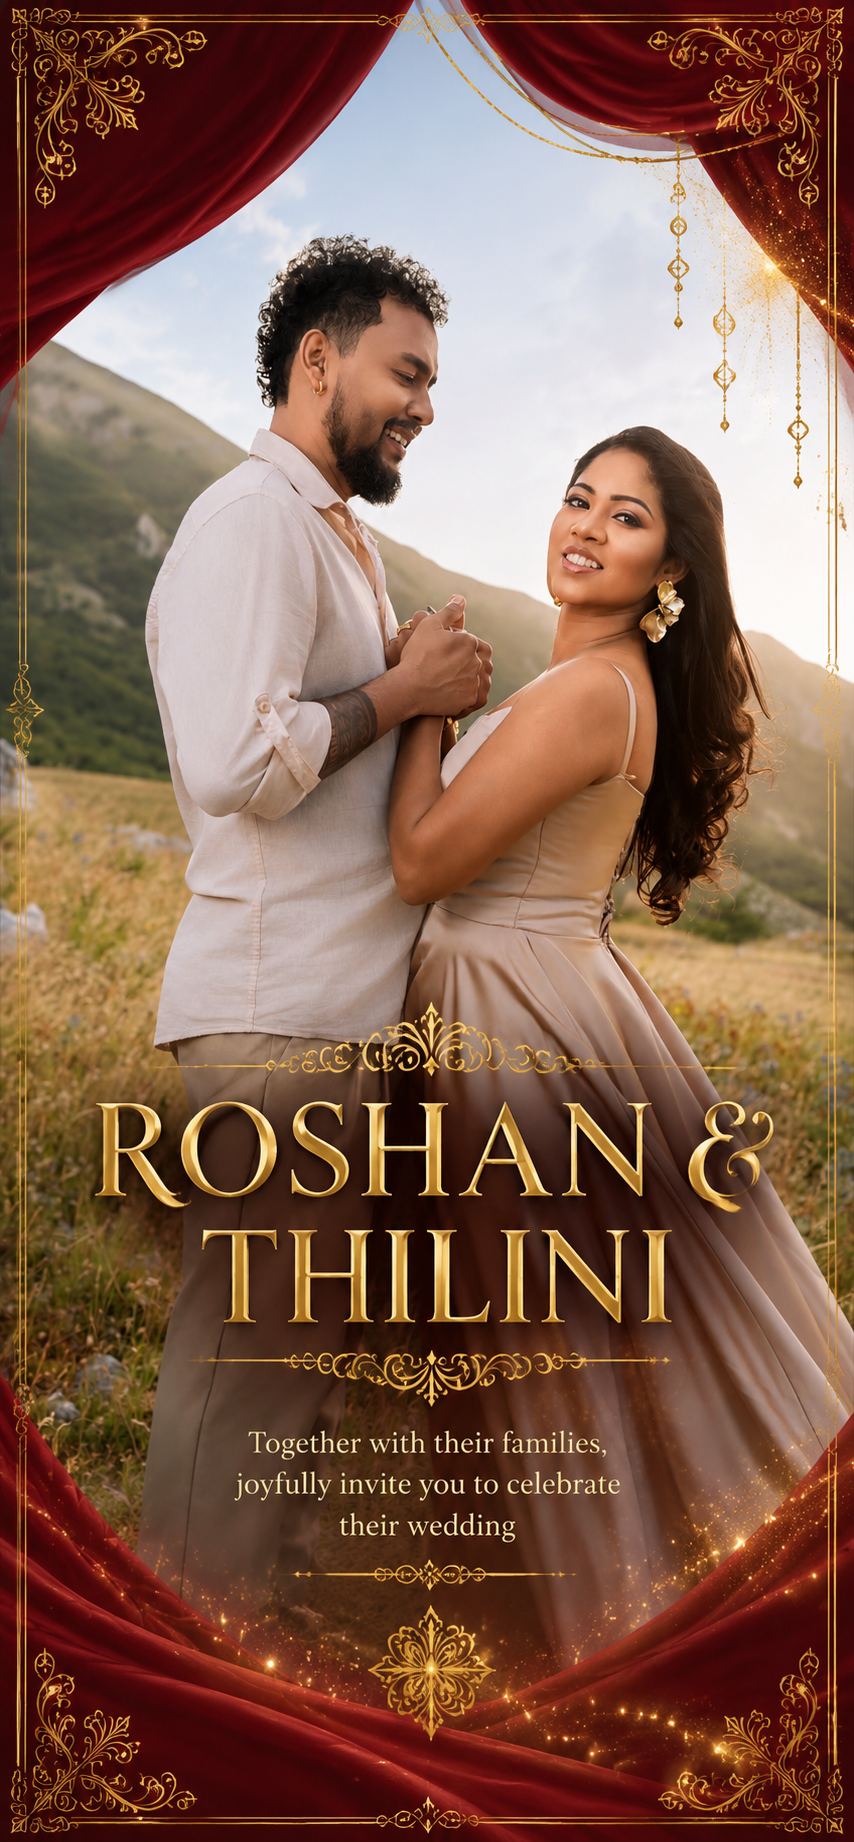
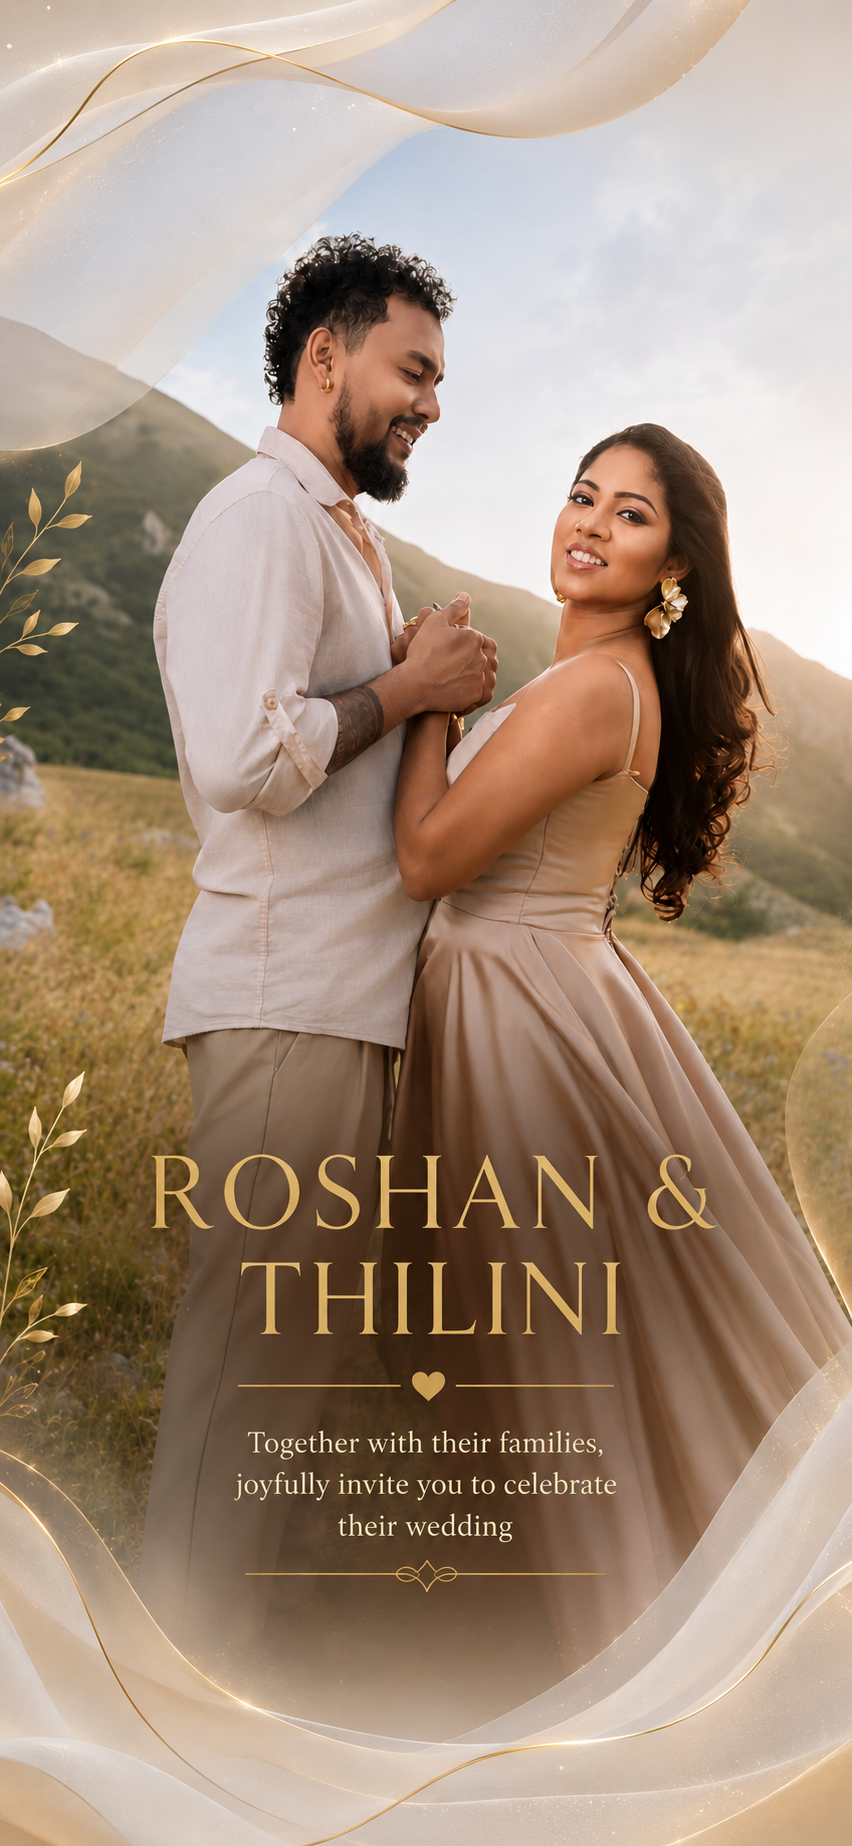
hhh

diff --git a/components/sections/ParentsSection.tsx b/components/sections/ParentsSection.tsx
@@ -1,0 +1,115 @@
+'use client';
+
+import { motion } from 'framer-motion';
+import { useInView } from 'react-intersection-observer';
+import { Sparkles } from 'lucide-react';
+
+export default function ParentsSection() {
+  const { ref, inView } = useInView({ threshold: 0.2, triggerOnce: true });
+
+  return (
+    <section
+      ref={ref}
+      className="relative overflow-hidden bg-[linear-gradient(180deg,#fff9ef_0%,#fff2df_42%,#fde8d4_100%)] px-4 py-24 sm:px-6 lg:px-8 md:py-32"
+    >
+      {/* Background Ornaments */}
+      <div className="pointer-events-none absolute inset-0 overflow-hidden">
+        <motion.div
+          animate={{ x: [0, 40, 0], y: [0, 20, 0], scale: [1, 1.05, 1] }}
+          transition={{ duration: 15, repeat: Infinity, ease: 'easeInOut' }}
+          className="absolute -right-[10%] top-[10%] h-[45vw] w-[45vw] rounded-full bg-gradient-to-br from-[#fad5d5] to-[#f7edd1] opacity-60 blur-[100px]"
+        />
+        <motion.div
+          animate={{ x: [0, -30, 0], y: [0, -30, 0], scale: [1, 1.1, 1] }}
+          transition={{ duration: 12, repeat: Infinity, ease: 'easeInOut', delay: 1 }}
+          className="absolute -left-[5%] bottom-[5%] h-[40vw] w-[40vw] rounded-full bg-gradient-to-tl from-[#eadcff] to-[#fce2e2] opacity-50 blur-[90px]"
+        />
+      </div>
+
+      <div className="relative z-10 mx-auto max-w-5xl">
+        <motion.div
+          initial={{ opacity: 0, y: 30 }}
+          animate={inView ? { opacity: 1, y: 0 } : {}}
+          transition={{ duration: 0.9, type: 'spring', stiffness: 100 }}
+          className="mb-16 text-center"
+        >
+          <motion.div
+            whileHover={{ scale: 1.03 }}
+            className="mb-6 inline-flex items-center gap-2 rounded-full border border-[#e6c86f]/45 bg-white/70 px-5 py-2.5 shadow-[0_10px_28px_rgba(195,137,94,0.22)] backdrop-blur-md"
+          >
+            <Sparkles className="h-4 w-4 text-[#dbb133]" />
+            <span className="text-xs font-bold uppercase tracking-[0.24em] text-[#dbb133] sm:text-sm">
+              Blessings
+            </span>
+          </motion.div>
+
+          <h2 className="font-serif text-3xl font-medium tracking-tight text-[#6d0c0c] sm:text-4xl md:text-5xl">
+            Together with <span className="relative inline-block text-[#e83030]">Our Parents</span>
+          </h2>
+        </motion.div>
+
+        <div className="grid grid-cols-1 md:grid-cols-2 gap-8 lg:gap-12">
+          {/* Bride's Parents */}
+          <motion.div
+            initial={{ opacity: 0, y: 40 }}
+            animate={inView ? { opacity: 1, y: 0 } : {}}
+            transition={{ duration: 1, delay: 0.2, ease: 'easeOut' }}
+            className="relative overflow-hidden rounded-[2rem] border border-[#f4e8c3] bg-white/65 p-10 text-center shadow-[0_16px_50px_rgba(184,126,89,0.15)] backdrop-blur-xl"
+          >
+            <div className="mb-6 flex justify-center">
+              <div className="h-px w-16 bg-[#e6c86f] opacity-60" />
+            </div>
+            
+            <h3 className="mb-8 font-serif text-2xl text-[#720d0d]">Bride's Parents</h3>
+            
+            <div className="space-y-6">
+              <div>
+                <p className="font-serif text-xl text-[#9c7515]">J.A. Chithra Rohini</p>
+                <p className="mt-1 text-[10px] font-bold uppercase tracking-[0.2em] text-[#dbb133]">Mother</p>
+              </div>
+              <div className="mx-auto h-8 w-px bg-gradient-to-b from-transparent via-[#e6c86f] to-transparent" />
+              <div>
+                <p className="font-serif text-xl text-[#9c7515]">R.A. Thilak Pushpakumara</p>
+                <p className="mt-1 text-[10px] font-bold uppercase tracking-[0.2em] text-[#dbb133]">Father</p>
+              </div>
+            </div>
+
+            <div className="mt-6 flex justify-center">
+              <div className="h-px w-16 bg-[#e6c86f] opacity-60" />
+            </div>
+          </motion.div>
+
+          {/* Groom's Parents */}
+          <motion.div
+            initial={{ opacity: 0, y: 40 }}
+            animate={inView ? { opacity: 1, y: 0 } : {}}
+            transition={{ duration: 1, delay: 0.4, ease: 'easeOut' }}
+            className="relative overflow-hidden rounded-[2rem] border border-[#f4e8c3] bg-white/65 p-10 text-center shadow-[0_16px_50px_rgba(184,126,89,0.15)] backdrop-blur-xl"
+          >
+            <div className="mb-6 flex justify-center">
+              <div className="h-px w-16 bg-[#e6c86f] opacity-60" />
+            </div>
+            
+            <h3 className="mb-8 font-serif text-2xl text-[#720d0d]">Groom's Parents</h3>
+            
+            <div className="space-y-6">
+              <div>
+                <p className="font-serif text-xl text-[#9c7515]">J.K. Samanmali Perera</p>
+                <p className="mt-1 text-[10px] font-bold uppercase tracking-[0.2em] text-[#dbb133]">Mother</p>
+              </div>
+              <div className="mx-auto h-8 w-px bg-gradient-to-b from-transparent via-[#e6c86f] to-transparent" />
+              <div>
+                <p className="font-serif text-xl text-[#9c7515]">W. Frensis Fernando</p>
+                <p className="mt-1 text-[10px] font-bold uppercase tracking-[0.2em] text-[#dbb133]">Father</p>
+              </div>
+            </div>
+
+            <div className="mt-6 flex justify-center">
+              <div className="h-px w-16 bg-[#e6c86f] opacity-60" />
+            </div>
+          </motion.div>
+        </div>
+      </div>
+    </section>
+  );
+}

diff --git a/app/layout.tsx b/app/layout.tsx
@@ -1,17 +1,20 @@
 import type { Metadata, Viewport } from 'next'
-import { Playfair_Display, Inter } from 'next/font/google'
+import { Cormorant_Garamond } from 'next/font/google'
 import { Analytics } from '@vercel/analytics/next'
 import './globals.css'
 import './enhancements.css'
 
-const playfairDisplay = Playfair_Display({
+const elegantFont = Cormorant_Garamond({
   subsets: ["latin"],
-  weight: ['400', '500', '600', '700'],
+  weight: ['300', '400', '500', '600', '700'],
+  style: ['normal', 'italic'],
   variable: '--font-serif'
 })
 
-const inter = Inter({
+const elegantFontSans = Cormorant_Garamond({
   subsets: ["latin"],
+  weight: ['300', '400', '500', '600', '700'],
+  style: ['normal', 'italic'],
   variable: '--font-sans'
 })
 
@@ -38,8 +41,8 @@ export default function RootLayout({
   children: React.ReactNode
 }>) {
   return (
-    <html lang="en" className={`${playfairDisplay.variable} ${inter.variable}`}>
-      <body className="font-sans antialiased">
+    <html lang="en" className={`${elegantFont.variable} ${elegantFontSans.variable}`}>
+      <body className="font-serif italic antialiased">
         {children}
         <Analytics />
       </body>

diff --git a/components/envelope-opener.tsx b/components/envelope-opener.tsx
@@ -405,14 +405,6 @@ export function EnvelopeOpener({ onEnvelopeOpen }: EnvelopeOpenerProps) {
                         <p className="text-[9px] uppercase tracking-[0.28em] text-[#8a6d18]">
                           Together with their families
                         </p>
-                        <p className="text-[9px] leading-5 text-[#655012]">
-                          Bride, the loving daughter of<br />
-                          <span className="font-semibold">J.A. Chithra rohini</span> (Mother) and <span className="font-semibold">R.A. Thilak pushpakumara</span> (Father)
-                        </p>
-                        <p className="text-[9px] leading-5 text-[#655012]">
-                          Groom, the loving son of<br />
-                          <span className="font-semibold">J.K .Samanmali perera</span> (Mother) and <span className="font-semibold">W. Frensis fernando</span> (Father)
-                        </p>
                       </div>
 
                       <div className="mt-4 flex items-center justify-center gap-3">

diff --git a/components/sections/VenueLocation.tsx b/components/sections/VenueLocation.tsx
@@ -4,7 +4,7 @@ import { motion } from 'framer-motion';
 import { useInView } from 'react-intersection-observer';
 import { ExternalLink, MapPin, Navigation, Sparkles } from 'lucide-react';
 
-const LIVE_LOCATION_URL = 'https://maps.app.goo.gl/CPsGzK2o96AkkDSW9';
+const LIVE_LOCATION_URL = 'https://maps.app.goo.gl/p7nChYMVBNn6jqfe9?g_st=iw';
 const FUNCTION_LOCATION_URL = 'https://maps.app.goo.gl/hPEbCMaPZywmpFQi7';
 
 export default function VenueLocation() {
@@ -168,7 +168,7 @@ export default function VenueLocation() {
               <div className="mt-6 rounded-2xl border border-[#f1e1b2]/60 bg-white/75 p-4">
                 <p className="text-[10px] uppercase tracking-[0.2em] text-[#dbb134]">Map Link</p>
                 <p className="mt-2 break-all text-xs text-[#b38e20]">
-                  maps.app.goo.gl/CPsGzK2o96AkkDSW9
+                  maps.app.goo.gl/p7nChYMVBNn6jqfe9?g_st=iw
                 </p>
               </div>
             </div>

diff --git a/app/page.tsx b/app/page.tsx
@@ -5,6 +5,7 @@ import { EnvelopeOpener } from '@/components/envelope-opener';
 import HeroSection from '@/components/sections/HeroSection';
 import StorySection from '@/components/sections/StorySection';
 import CoupleImageSection from '@/components/sections/CoupleImageSection';
+import ParentsSection from '@/components/sections/ParentsSection';
 import CeremonyDetails from '@/components/sections/CeremonyDetails';
 import CountdownSection from '@/components/sections/CountdownSection';
 
@@ -34,6 +35,7 @@ export default function Home() {
           <HeroSection />
           <StorySection />
           <CoupleImageSection />
+          <ParentsSection />
           <CeremonyDetails />
           <CountdownSection />
 

diff --git a/components/sections/FooterSection.tsx b/components/sections/FooterSection.tsx
@@ -3,7 +3,7 @@
 import { motion } from 'framer-motion';
 import { Heart, MapPin, Sparkles } from 'lucide-react';
 
-const LIVE_LOCATION_URL = 'https://maps.app.goo.gl/CPsGzK2o96AkkDSW9';
+const LIVE_LOCATION_URL = 'https://maps.app.goo.gl/p7nChYMVBNn6jqfe9?g_st=iw';
 
 export default function FooterSection() {
   return (
